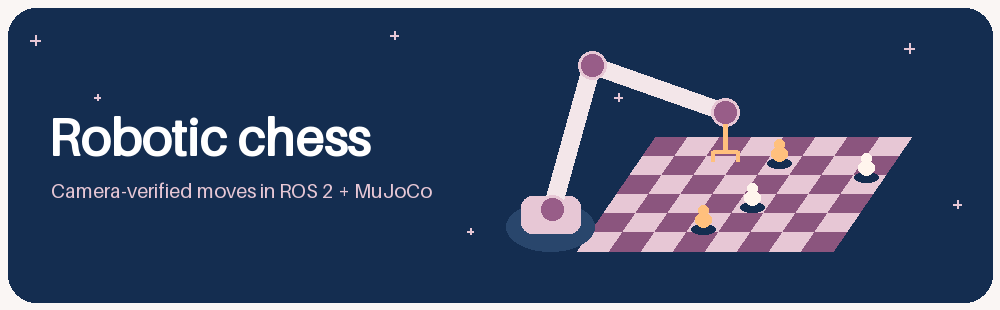
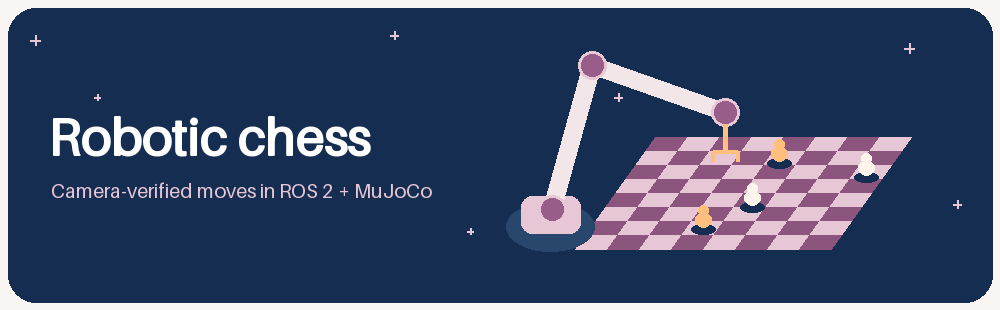
Polish the illustrated board and replay label

Changed region(s): [[0.558, 0.4645, 0.899, 0.8129]]

diff --git a/readme_visuals.py b/readme_visuals.py
@@ -26,10 +26,10 @@ def hero():
     d.text((49, 105), "Robotic chess", fill="white", font_size=51, stroke_width=1)
     d.text((51, 178), "Camera-verified moves in ROS 2 + MuJoCo", fill=LIGHT, font_size=20)
     board = (655, 137)
-    for row in range(6):
+    for row in range(8):
         for col in range(8):
-            x, y = board[0]+col*32-row*13, board[1]+row*19
-            d.polygon([(x,y),(x+32,y),(x+19,y+19),(x-13,y+19)],
+            x, y = board[0]+col*32-row*10, board[1]+row*14
+            d.polygon([(x,y),(x+32,y),(x+22,y+14),(x-10,y+14)],
                       fill=LIGHT if (row+col)%2 else "#8b557e")
     for x, y, color in [(703,230,GOLD),(752,208,"#fff5ed"),(779,164,GOLD),(866,178,"#fff5ed")]:
         d.ellipse((x-12,y-6,x+12,y+4), fill=NAVY)
@@ -78,7 +78,7 @@ def replay():
         verified = len(path) == len(trajectory)
         camera = after if verified else before
         frame.paste(camera.resize((220, 220), Image.Resampling.NEAREST), (622, 53))
-        label = "e2 → e4  ·  Board verified" if verified else f"e2 → e4  ·  {phase.title()}"
+        label = "e2 to e4  ·  Board verified" if verified else f"e2 to e4  ·  {phase.title()}"
         d.text((36, 281), label, fill=NAVY, font_size=18)
         frames.append(frame)
     assert evidence["move"] == "e2e4" and evidence["verification_retries"] == 0
